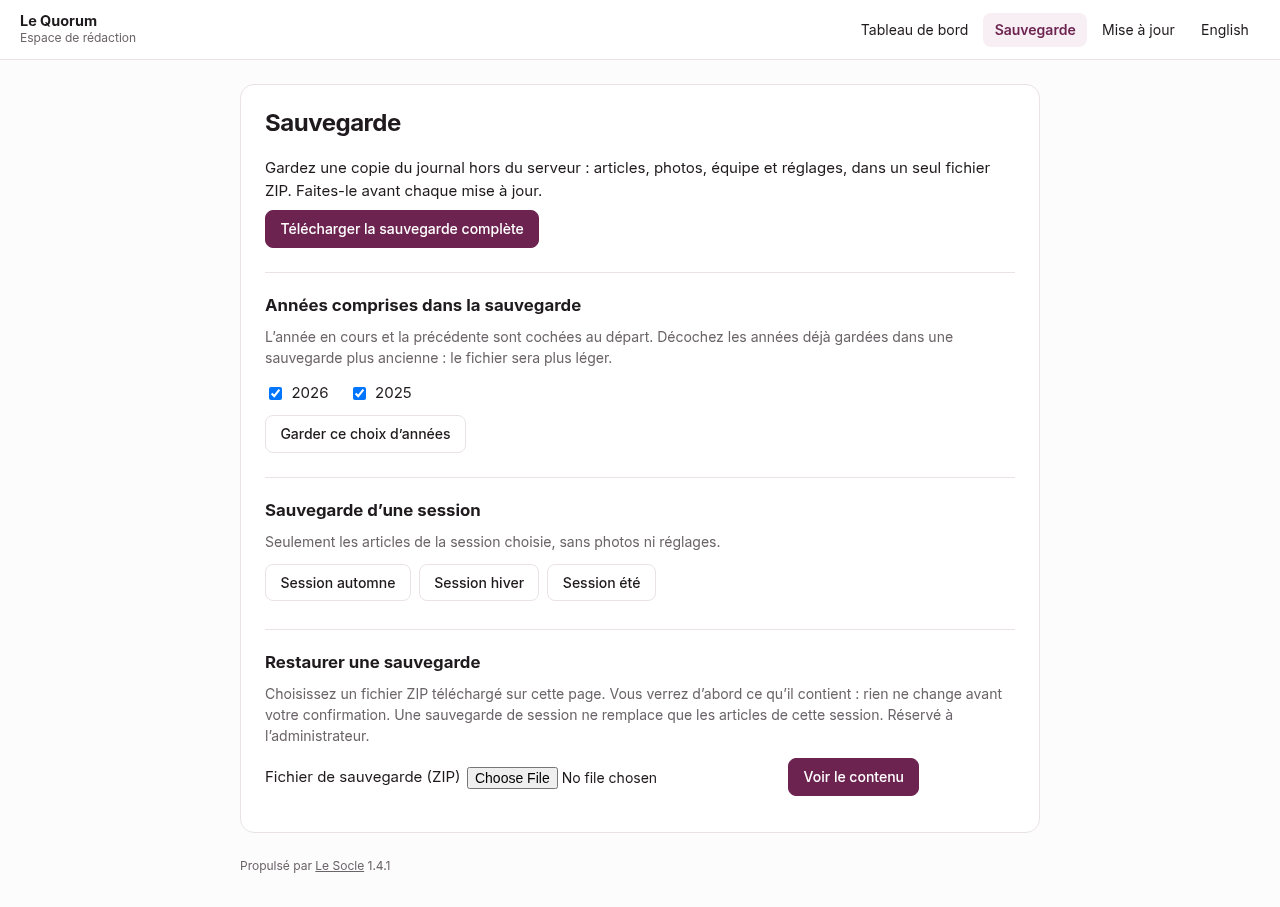
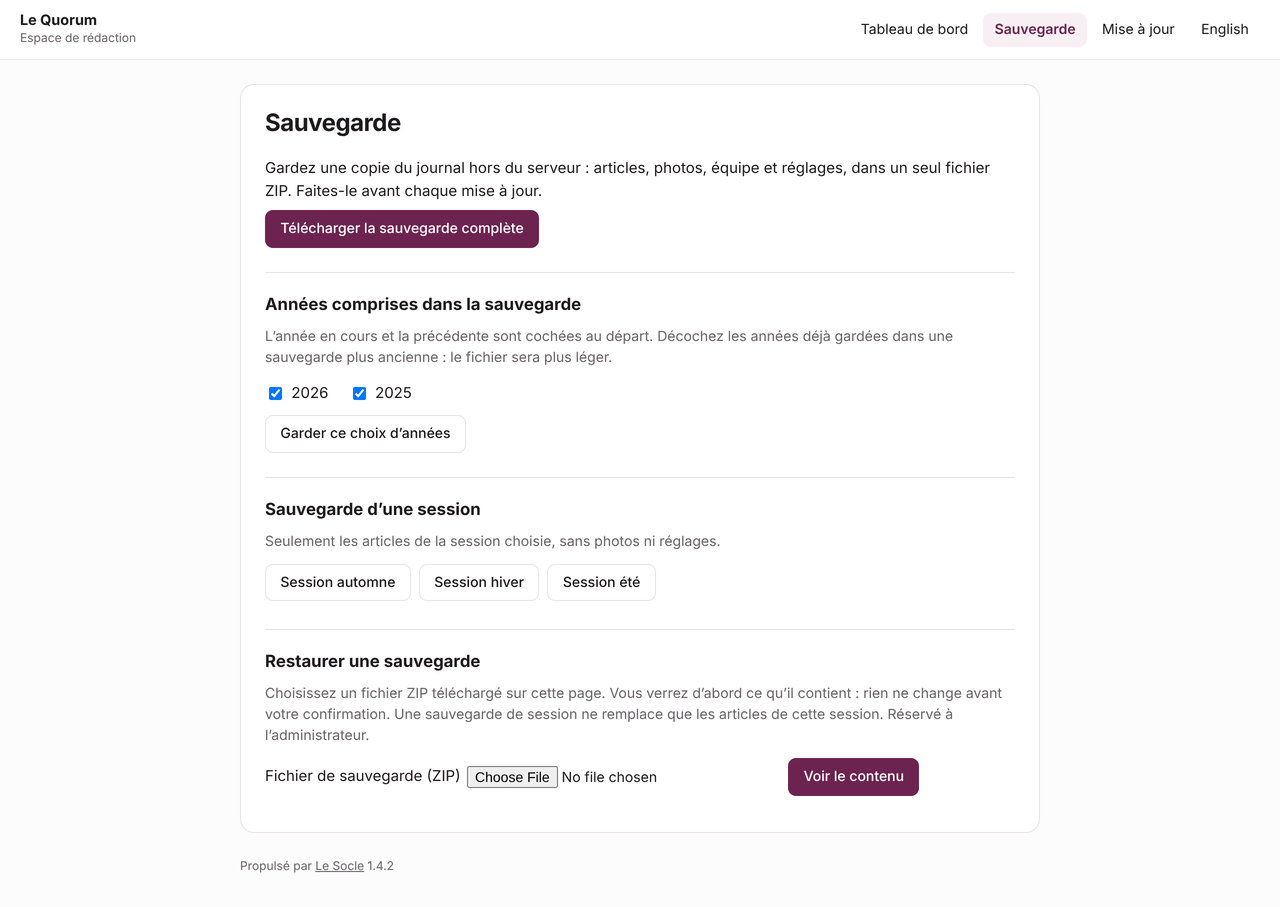
Actualise les captures des pages publiques sur v1.4.2
Les vues de l’espace de rédaction viennent du Quorum à jour, y compris
le réglage de plusieurs photos de mât avec l’ordre aléatoire activé par
défaut. Les dimensions des images sont mises à jour.

diff --git a/site/index.html b/site/index.html
@@ -54,7 +54,7 @@
 
     <div class="wrap">
       <figure class="frame">
-        <img src="assets/captures/tableau-de-bord.jpg" width="1280" height="530" alt="Tableau de bord de l’espace de rédaction du Quorum, avec le nombre d’articles, de brouillons et de signatures." loading="eager">
+        <img src="assets/captures/tableau-de-bord.jpg" width="1280" height="620" alt="Tableau de bord de l’espace de rédaction du Quorum, avec le nombre d’articles, de brouillons et de signatures." loading="eager">
         <figcaption>Le tableau de bord, sur Le Quorum, journal de démonstration.</figcaption>
       </figure>
     </div>
@@ -74,7 +74,7 @@
         </div>
         <div class="gallery">
           <figure class="shot shot--tall">
-            <img src="assets/captures/equipe-roles.jpg" width="1280" height="1588" alt="Liste des comptes du Quorum : administrateur, autrice limitée à des rubriques, chef de pupitre et photographe, puis les signatures." loading="lazy">
+            <img src="assets/captures/equipe-roles.jpg" width="1280" height="1661" alt="Liste des comptes du Quorum : administrateur, autrice limitée à des rubriques, chef de pupitre et photographe, puis les signatures." loading="lazy">
             <figcaption>Les comptes de l’équipe, avec restriction par rubrique.</figcaption>
           </figure>
           <figure class="shot shot--tall">
@@ -89,7 +89,7 @@
       <div class="wrap">
         <p class="kicker">Le travail quotidien</p>
         <h2>Écrire, relire, protéger le journal.</h2>
-        <p class="intro">L’éditeur enregistre ce que l’on voit. On peut prévisualiser un article dans le thème, sans le publier. Une sauvegarde complète tient dans un fichier ZIP, à garder hors du serveur ; la même page restaure une archive. Quand une version est publiée, la page Mise à jour la propose en un clic.</p>
+        <p class="intro">L’éditeur enregistre ce que l’on voit. On peut prévisualiser un article dans le thème, sans le publier. Dans la configuration, on choisit plusieurs photos de mât et on peut les afficher dans un ordre aléatoire. Une sauvegarde complète tient dans un fichier ZIP, à garder hors du serveur ; la même page restaure une archive. Quand une version est publiée, la page Mise à jour la propose en un clic.</p>
         <div class="gallery">
           <figure class="shot shot--tall">
             <img src="assets/captures/editeur-article.jpg" width="1400" height="2752" alt="Formulaire de rédaction d’un article du Quorum, avec la photo principale et le bouton Prévisualiser sans publier." loading="lazy">
@@ -102,6 +102,10 @@
           <figure class="shot shot--wide">
             <img src="assets/captures/sauvegarde.jpg" width="1280" height="907" alt="Page Sauvegarde : télécharger la sauvegarde complète, archives par année ou par session, et restaurer une archive." loading="lazy">
             <figcaption>La page Sauvegarde, réservée à l’administrateur.</figcaption>
+          </figure>
+          <figure class="shot shot--wide">
+            <img src="assets/captures/configuration-mat.jpg" width="1280" height="1682" alt="Réglage du mât illustré : plusieurs photos choisies dans la banque, option Ordre aléatoire activée par défaut, et aperçus ordinateur, tablette et téléphone." loading="lazy">
+            <figcaption>Le réglage du mât : plusieurs photos, et l’ordre aléatoire activé par défaut.</figcaption>
           </figure>
         </div>
       </div>

diff --git a/README.md b/README.md
@@ -32,6 +32,7 @@ Aux équipes qui utilisent le Kiosque, et à qui veut faire tourner l’espace d
 - **Banque de photos :** ajout, fiche, crédit obligatoire, licence, retrait. Le photographe gère la banque et n’écrit pas d’articles.
 - **Rédaction :** titre, chapeau, texte, rubriques, signatures multiples, statut (brouillon, en révision, publié). On peut prévisualiser un article dans le thème, sans le publier.
 - **Sauvegarde et restauration :** un fichier ZIP avec les articles, les photos, l’équipe (sans les mots de passe) et les réglages. La même page restaure une archive.
+- **Photos de mât :** on en choisit plusieurs dans la banque, et on peut les afficher dans un ordre aléatoire (activé par défaut).
 - **Mise à jour en un clic**, quand une version est publiée. Une sauvegarde juste avant reste la bonne habitude.
 
 ![Comptes et rôles](site/assets/captures/equipe-roles.jpg)
@@ -41,6 +42,10 @@ Aux équipes qui utilisent le Kiosque, et à qui veut faire tourner l’espace d
 ![Banque de photos](site/assets/captures/banque-photos.jpg)
 
 <p align="center"><em>La banque de photos.</em></p>
+
+![Réglage du mât illustré](site/assets/captures/configuration-mat.jpg)
+
+<p align="center"><em>Plusieurs photos de mât, et l’ordre aléatoire activé par défaut.</em></p>
 
 ---
 
